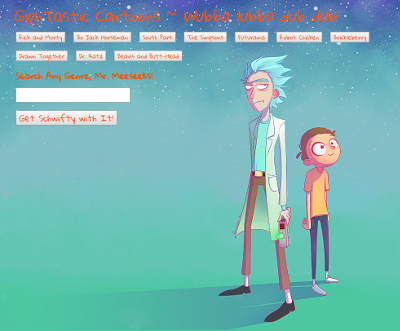
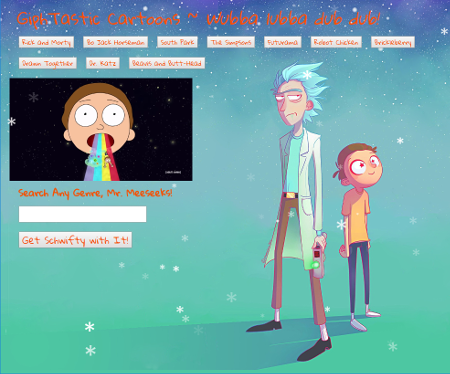
new screenshot

diff --git a/index.html b/index.html
@@ -43,9 +43,9 @@ ED5M7CisPjLAtbyt9UiIJpQdgioBnDSz
 
   <!-- Snowflake Container -->
   <div id="snowflakeContainer">
-      <p class="snowflake">*</p>
+    <p class="snowflake">*</p>
   </div>
-   <!--End Snowflake Container -->
+  <!--End Snowflake Container -->
 
   <h1>&nbsp;GiphTastic Cartoons ~
     <em>Wubba lubba dub dub!</em>
@@ -53,9 +53,8 @@ ED5M7CisPjLAtbyt9UiIJpQdgioBnDSz
 
   <div id="buttons-view"></div>
 
-  <iframe width="400" height="225" src="https://www.youtube.com/embed/TgqiSBxvdws?rel=0&amp;controls=0" frameborder="0" gesture="media" allow="encrypted-media" allowfullscreen alt="Moonmen Music Video"></iframe>
-
-  
+  <iframe width="400" height="225" src="https://www.youtube.com/embed/TgqiSBxvdws?rel=0&amp;controls=0" frameborder="0" gesture="media"
+    allow="encrypted-media" allowfullscreen alt="Moonmen Music Video"></iframe>
 
   <form id="gify-form">
     <label form="gify-input">&nbsp;Search Any Genre, Mr. Meeseeks!</label>
